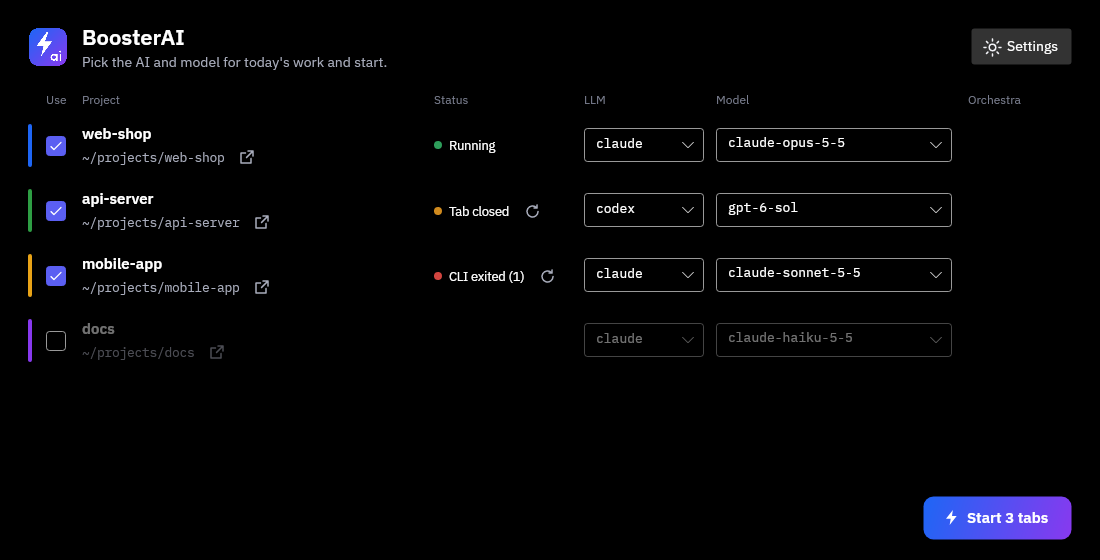
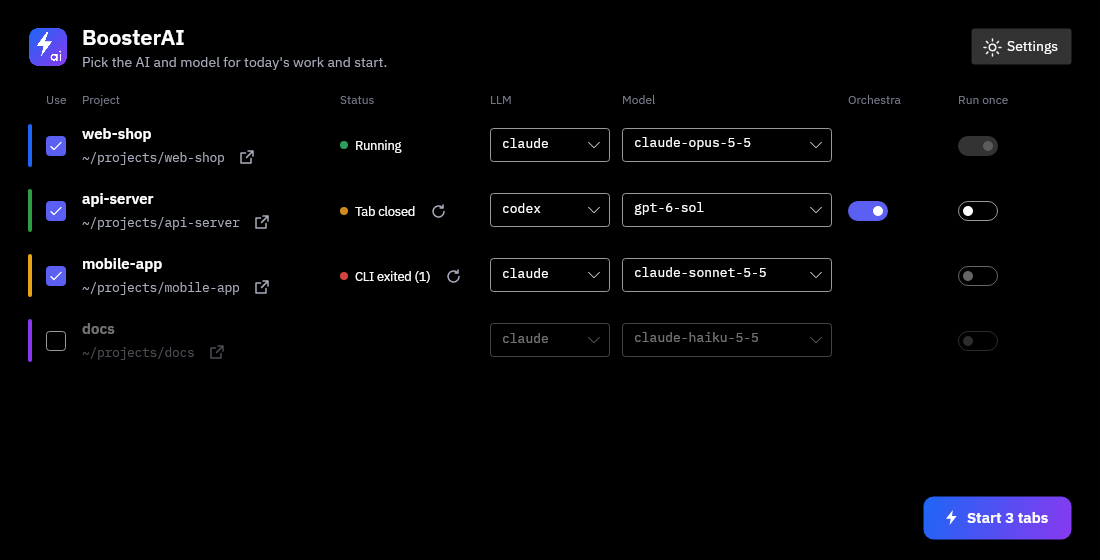
Run the orchestra once, non-interactively, per project: claude -p, codex exec, agy -p (Fixes #20)

diff --git a/src/BoosterAI/ViewModels.cs b/src/BoosterAI/ViewModels.cs
@@ -28,7 +28,7 @@ public sealed class TabViewModel : Observable
     private readonly MainViewModel _owner;
     private string _name, _directory, _llm, _model;
     private int _colorIndex;
-    private bool _enabled, _orkester;
+    private bool _enabled, _orkester, _nonInteractive;
     private bool? _hasOrkester;
 
     public TabViewModel(TabConfig c, MainViewModel owner, int index)
@@ -39,10 +39,20 @@ public sealed class TabViewModel : Observable
         _llm = Catalog.Llms.Contains(c.Llm) ? c.Llm : Catalog.DefaultLlm;
         _model = string.IsNullOrWhiteSpace(c.Model) ? Catalog.StandardModel : c.Model;
         _orkester = c.Orkester;
+        _nonInteractive = c.NonInteractive;
     }
 
     public string Name { get => _name; set => Set(ref _name, value); }
-    public bool Orkester { get => _orkester; set => Set(ref _orkester, value); }
+    public bool Orkester
+    {
+        get => _orkester;
+        set { if (Set(ref _orkester, value)) Raise(nameof(CanNonInteractive)); }
+    }
+
+    public bool NonInteractive { get => _nonInteractive; set => Set(ref _nonInteractive, value); }
+
+    /// <summary>One-shot mode applies to the orchestra command only, so it needs the orchestra on.</summary>
+    public bool CanNonInteractive => _orkester && CanOrkester;
     public string Model { get => _model; set => Set(ref _model, value?.Trim() ?? ""); }
 
     public string Directory
@@ -74,6 +84,7 @@ public sealed class TabViewModel : Observable
             if (!Set(ref _hasOrkester, value)) return;
             Raise(nameof(CanOrkester));
             Raise(nameof(CanInstallOrkester));
+            Raise(nameof(CanNonInteractive));
         }
     }
 
@@ -117,6 +128,7 @@ public sealed class TabViewModel : Observable
             Raise(nameof(Models));
             Raise(nameof(IsAi));
             Raise(nameof(CanOrkester));
+            Raise(nameof(CanNonInteractive));
             Raise(nameof(CanInstallOrkester));
             // Another CLI's model id rarely fits; fall back to its default.
             if (!Catalog.ModelsFor(value).Contains(Model)) Model = Catalog.StandardModel;
@@ -139,8 +151,11 @@ public sealed class TabViewModel : Observable
     internal TabConfig? LaunchedAs { get; set; }
     internal string? TrackId { get; set; }
     internal DateTime LaunchedAt { get; set; }
+    internal void RaiseRestartTip() => Raise(nameof(RestartTip));
 
     public bool HasStatus => _state is not null;
+    /// <summary>A one-shot tab is "run again" rather than "open again".</summary>
+    public string RestartTip => Loc.Get(LaunchedAs is { NonInteractive: true, Orkester: true } ? "restart.once.tip" : "restart.tip");
     public bool CanRestart => _state is TabState.Closed or TabState.CliExited or TabState.CliMissing
         or TabState.NotStarted or TabState.Lost;
     public string StatusText => _state switch
@@ -173,6 +188,7 @@ public sealed class TabViewModel : Observable
         Name = Name.Trim(), Color = Color, ColorIndex = _colorIndex, Directory = Directory.Trim(), Enabled = Enabled,
         Llm = Llm, Model = string.IsNullOrWhiteSpace(Model) ? Catalog.StandardModel : Model,
         Orkester = forLaunch ? Orkester && CanOrkester : Orkester,
+        NonInteractive = NonInteractive,
     };
 }
 
@@ -369,6 +385,7 @@ public sealed class MainViewModel : Observable
             row.LaunchedAs = tab;
             row.TrackId = track.Id;
             row.LaunchedAt = DateTime.UtcNow;
+            row.RaiseRestartTip();
             row.SetState(TabState.Starting, null);
         }
         _poll ??= new DispatcherTimer(TimeSpan.FromSeconds(2), DispatcherPriority.Background, (_, _) => Poll());

diff --git a/tests/BoosterAI.Tests/LauncherTests.cs b/tests/BoosterAI.Tests/LauncherTests.cs
@@ -28,6 +28,55 @@ public class LauncherTests
         Assert.EndsWith("claude 'hej' || true && exec bash", Launcher.TabScript(new TabConfig { Llm = "claude", Orkester = true }, "hej"));
     }
 
+    private static TabConfig Once(string llm, bool orkester = true, string model = "x") =>
+        new() { Directory = "~/proj", Llm = llm, Model = model, Orkester = orkester, NonInteractive = true };
+
+    [Fact]
+    public void OneShotClaudeUsesPrint() => Assert.Equal(
+        "cd ~/'proj' && claude --model 'x' -p '/orkester' || true && exec bash",
+        Launcher.TabScript(Once("claude")));
+
+    [Fact]
+    public void OneShotAgyUsesPrintInsteadOfInteractive() => Assert.Equal(
+        "cd ~/'proj' && agy --model 'x' -p '/orkester' || true && exec bash",
+        Launcher.TabScript(Once("agy")));
+
+    [Fact]
+    public void OneShotCodexUsesExec() => Assert.Equal(
+        "cd ~/'proj' && codex exec --model 'x' $(test -d .agents/skills/orkester && echo '$orkester' || echo /orkester) || true && exec bash",
+        Launcher.TabScript(Once("codex")));
+
+    [Fact]
+    public void OneShotWithoutOrkesterIsIgnored()
+    {
+        foreach (var llm in new[] { "claude", "codex", "agy" })
+            Assert.Equal(Launcher.TabScript(new TabConfig { Directory = "~/proj", Llm = llm, Model = "x" }),
+                Launcher.TabScript(Once(llm, orkester: false)));
+    }
+
+    [Fact]
+    public void OneShotStaysInteractiveForTheInstallPrompt()
+    {
+        var script = Launcher.TabScript(Once("claude"), "it's a test");
+        Assert.DoesNotContain("-p ", script);
+        Assert.DoesNotContain("exec ", script.Replace("exec bash", ""));
+    }
+
+    [Fact]
+    public void OneShotWithTrackingKeepsHooksAndShell()
+    {
+        var track = new TabTrack("/s/lib.sh", "/s", "tab1");
+        foreach (var llm in new[] { "claude", "codex", "agy" })
+        {
+            var script = Launcher.TabScript(Once(llm), null, track);
+            Assert.DoesNotContain(';', script);
+            Assert.Contains("(bs_cli 2>/dev/null || true)", script);
+            Assert.Contains("(bs_done 0 2>/dev/null || true)", script);
+            Assert.Contains("(bs_done $? 2>/dev/null || true)", script);
+            Assert.EndsWith(" && bash", script);
+        }
+    }
+
     [Fact]
     public void RejectsUnsafeModelAndDirectory()
     {

diff --git a/src/BoosterAI/Launcher.cs b/src/BoosterAI/Launcher.cs
@@ -29,17 +29,21 @@ public static class Launcher
 
         var args = new List<string>();
         if (tab.Model != Catalog.StandardModel) args.Add("--model " + Quote(tab.Model));
+        // One-shot mode applies to the orchestra command only; a given prompt (the install) stays interactive.
+        var once = tab.NonInteractive && tab.Orkester && prompt is null;
         if (prompt is not null)
             args.Add((tab.Llm == "agy" ? "-i " : "") + Quote(prompt));
         else if (tab.Orkester)
             args.Add(tab.Llm switch
             {
-                "agy" => "-i " + Quote("/orkester"),
+                "agy" => (once ? "-p " : "-i ") + Quote("/orkester"),
                 // Codex invokes repository skills as $name; repositories without one get the slash text.
                 "codex" => "$(test -d .agents/skills/orkester && echo '$orkester' || echo /orkester)",
+                _ when once => "-p " + Quote("/orkester"),
                 _ => Quote("/orkester"),
             });
         var cli = string.Join(' ', new[] { tab.Llm }.Concat(args));
+        if (once && tab.Llm == "codex") cli = "codex exec" + cli["codex".Length..];
         if (track is null) return $"{cd} && {cli} || true && exec bash";
         return $"{lib}{cd} && {Hook("bs_cli")} && {cli} && {Hook("bs_done 0")} || {Hook("bs_done $?")} && bash";
     }
@@ -154,7 +158,7 @@ public static class Launcher
     private static TabConfig InWsl(TabConfig t) => new()
     {
         Name = t.Name, Color = t.Color, ColorIndex = t.ColorIndex, Enabled = t.Enabled,
-        Llm = t.Llm, Model = t.Model, Orkester = t.Orkester, Directory = PathMapping.ToWslPath(t.Directory),
+        Llm = t.Llm, Model = t.Model, Orkester = t.Orkester, NonInteractive = t.NonInteractive, Directory = PathMapping.ToWslPath(t.Directory),
     };
 
     private static void LaunchWindowsTerminal(IReadOnlyList<TabConfig> tabs, string distro, string? prompt,

diff --git a/src/BoosterAI/Program.cs b/src/BoosterAI/Program.cs
@@ -10,6 +10,8 @@ internal static class Program
         // --dry-run prints what "Starta" would run, without opening anything.
         if (args.Contains("--dry-run"))
         {
+            var at = Array.IndexOf(args, "--config");
+            if (at >= 0 && at + 1 < args.Length) ConfigStore.UseFile(args[at + 1]);
             var cfg = ConfigStore.Load();
             var tabs = cfg.Tabs.Where(t => t.Enabled).ToList();
             // Each Start gets a session directory with a status log per tab; shown here with a placeholder.

diff --git a/src/BoosterAI/Config.cs b/src/BoosterAI/Config.cs
@@ -17,6 +17,8 @@ public sealed class TabConfig
     public string Llm { get; set; } = Catalog.DefaultLlm;
     public string Model { get; set; } = Catalog.StandardModel;
     public bool Orkester { get; set; }
+    /// <summary>Run the orchestra command once non-interactively, then leave a shell. Ignored while Orkester is off.</summary>
+    public bool NonInteractive { get; set; }
 }
 
 public sealed class AppConfig

diff --git a/docs/DETAILS.md b/docs/DETAILS.md
@@ -36,6 +36,14 @@ BoosterAI speaks Swedish and English. By default it follows the operating system
 
 The toggle appears only for projects that have it installed. Other projects show an "Install" link: a dialog explains what will happen, then the AI you chose opens in a new tab and installs it, asking you about the rules before it commits anything.
 
+## Run once (non-interactive)
+
+With the orchestra on, a **Run once** toggle per project (`"NonInteractive": true` in `config.json`) starts the CLI non-interactively with the orchestra command instead of an interactive session: `claude -p '/orkester'`, `agy -p '/orkester'` and `codex exec <orkester skill or /orkester>`. The tab keeps a normal shell afterwards so the output stays on screen, and the tab status shows *CLI exited (0)* or the failing exit code. The restart button of such a tab runs the orchestra again (its tooltip says so).
+
+It means: one task that ends. You cannot answer or steer during the run, and tools that need approval are refused (no `--dangerously-*` flag is ever added). The toggle is disabled while the orchestra is off, and the install prompt always runs interactively.
+
+It does not save tokens by itself: every turn sends the same context in both modes. In a test on #20 (claude haiku, a 34-line project) two identical one-shot runs differed more from each other than any mode difference could explain. Background tasks (`sleep` polls) kept the claude, codex and agy runs alive until they finished in a 20-second test; a long multi-hour queue run is not verified.
+
 ## Watching the tabs
 
 After **Start**, BoosterAI stays running and shows a status per tab: *Starting…*, *Running*, *CLI exited (code)*, *CLI not found*, *Did not start*, *Tab closed* or *Lost*. On Windows the window goes to the system tray, and clicking the icon brings it back. On Linux it minimizes instead, because many desktops (plain GNOME, for example) have no tray. A tab that has closed or whose CLI has exited gets a restart button. The button opens the tab again with the same AI, model and orchestra choice, in the same Windows Terminal window.

diff --git a/README.md b/README.md
@@ -16,6 +16,7 @@ Start your whole working day with one click: BoosterAI opens every project you w
 - **Status per tab.** Running, exited, not found or closed, with a restart button and a tray icon (Windows) or minimized window (Linux).
 - **Notifications.** A system notification when a tab closes, fails to start or its CLI exits with an error.
 - **Orchestra on demand.** For projects that use [Dirigenten och orkestern](https://github.com/solwation/dirigenten-och-orkestern), a toggle sends `/orkester` as the first prompt, and projects without it get a one-click install.
+- **Run the orchestra once.** A per-project toggle runs `/orkester` non-interactively and leaves you a normal shell with the result; the restart button then runs it again.
 - **Open the folder.** One button per project opens its directory in Explorer (WSL folders included), Finder or your Linux file manager.
 - **Your shell, your setup.** Tabs run through `bash -lic`, so your aliases and `PATH` apply, and you keep a normal shell when the CLI exits.
 - **Font size.** One setting zooms the CLI text in all tabs.
